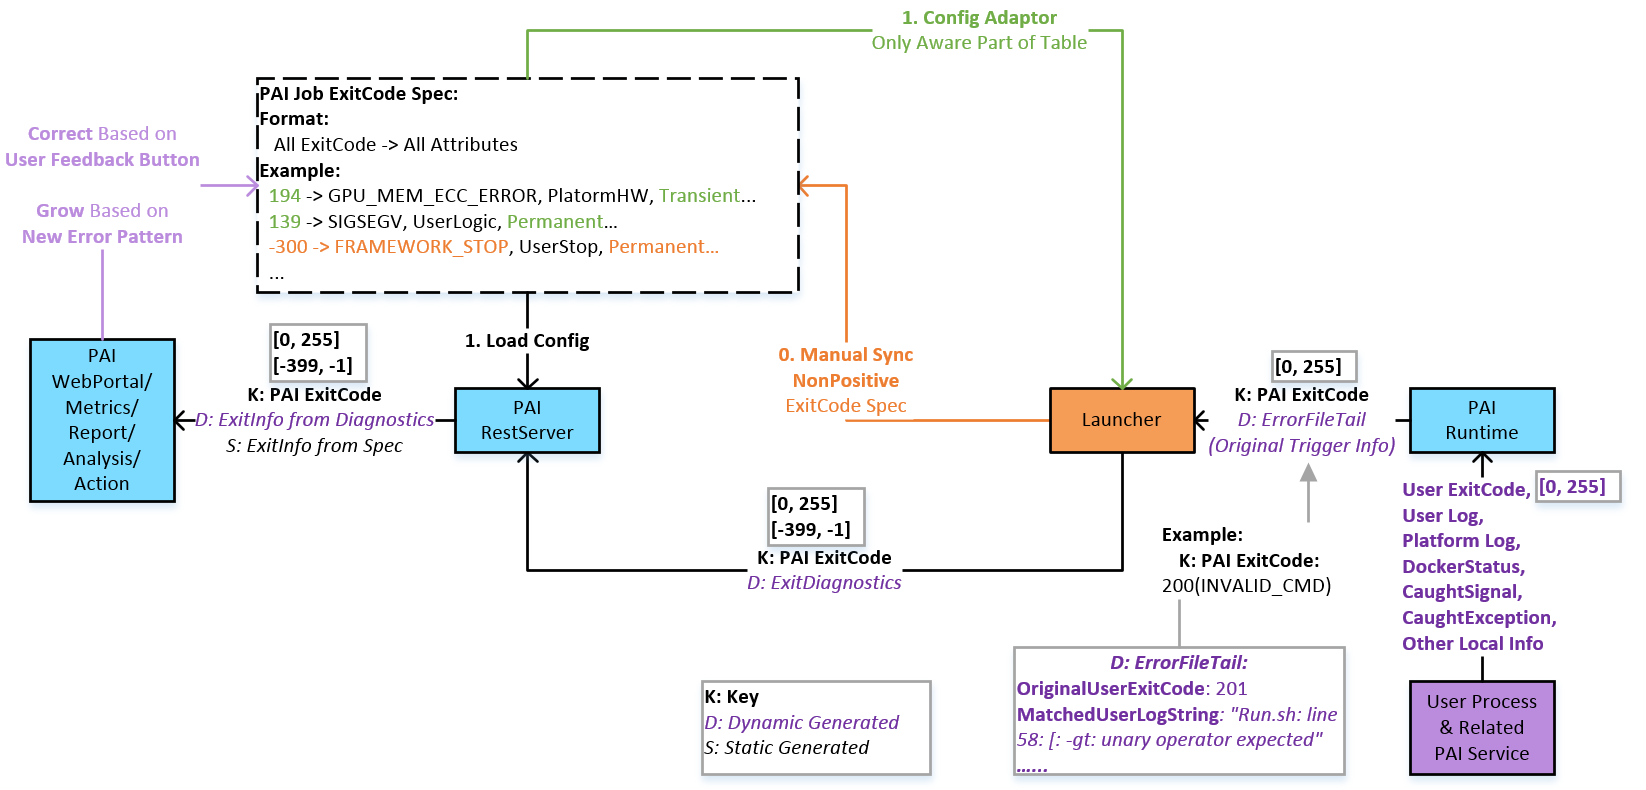
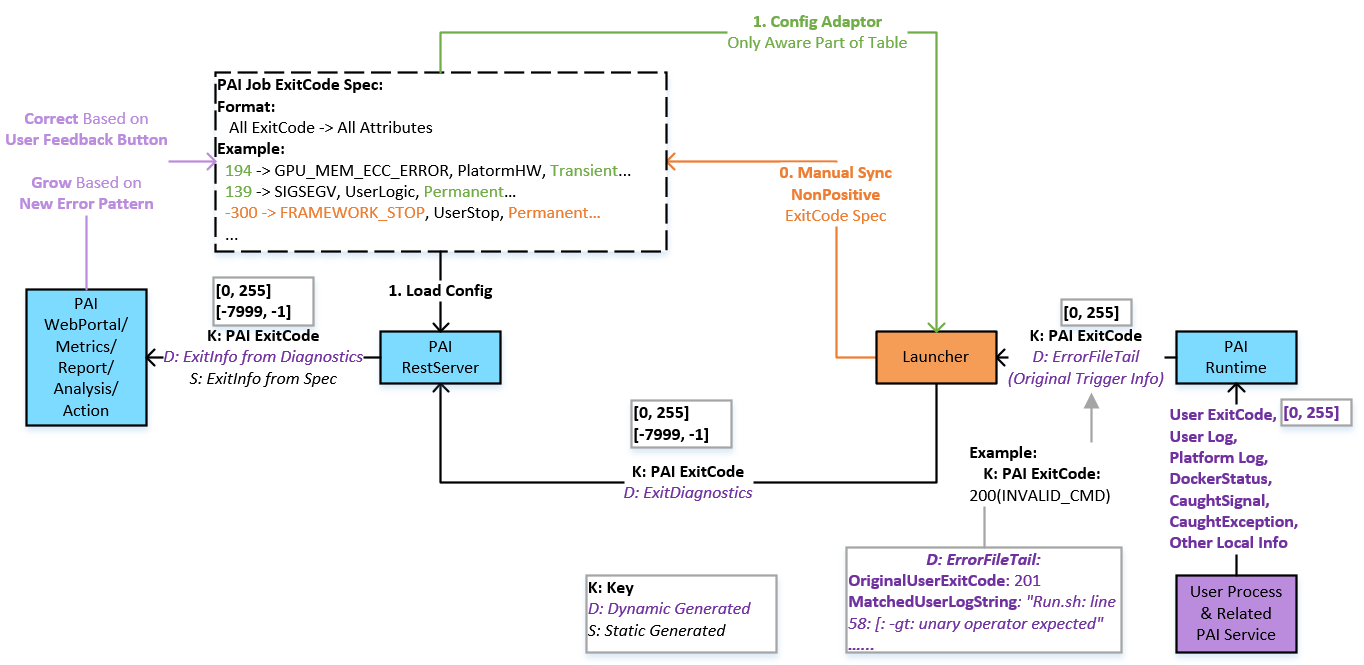
[YARN]: Tune Diagnostics Aggregation

Changed region(s): [[0.0, 0.0, 1.0, 0.9925], [0.4003, 0.8421, 0.585, 0.9925]]

diff --git a/subprojects/frameworklauncher/yarn/src/main/java/com/microsoft/frameworklauncher/common/exit/FrameworkExitSpec.java b/subprojects/frameworklauncher/yarn/src/main/java/com/microsoft/frameworklauncher/common/exit/FrameworkExitSpec.java
@@ -49,22 +49,22 @@ public class FrameworkExitSpec {
         ContainerExitStatus.INVALID,
         null,
         ExitType.TRANSIENT_NORMAL,
-        "Container exited with invalid exit status, maybe container initialization failed"));
+        "Container exited with invalid exit status, maybe YARN failed to initialize container environment"));
     spec.put(FrameworkExitCode.CONTAINER_NOT_AVAILABLE_EXIT_STATUS.toInt(), new FrameworkExitInfo(
         -2517,
         null,
         ExitType.TRANSIENT_NORMAL,
-        "Container exited with not available exit status, maybe container process creation failed"));
+        "Container exited with not available exit status, maybe YARN failed to create container executor process"));
     spec.put(FrameworkExitCode.CONTAINER_NODE_DISKS_FAILED.toInt(), new FrameworkExitInfo(
         ContainerExitStatus.DISKS_FAILED,
         null,
         ExitType.TRANSIENT_NORMAL,
-        "Container early discarded by NM due to local bad disk, maybe no capacity left on the disk"));
+        "Container cannot be launched by YARN due to local bad disk, maybe no disk space left"));
     spec.put(FrameworkExitCode.CONTAINER_PORT_CONFLICT.toInt(), new FrameworkExitInfo(
         -210,
         null,
         ExitType.TRANSIENT_NORMAL,
-        "Container early discarded by NM due to the request ports conflict"));
+        "Container cannot be launched by YARN due to local port conflict"));
     //// Container Aborted by YARN
     spec.put(FrameworkExitCode.CONTAINER_ABORTED.toInt(), new FrameworkExitInfo(
         ContainerExitStatus.ABORTED,
@@ -75,79 +75,79 @@ public class FrameworkExitSpec {
         ContainerExitStatus.ABORTED,
         "Container released on a *lost* node",
         ExitType.TRANSIENT_NORMAL,
-        "Container lost due to node lost, maybe its NM is down for a long time"));
+        "Container lost due to node lost, maybe its YARN NM is down for a long time"));
     spec.put(FrameworkExitCode.CONTAINER_EXPIRED.toInt(), new FrameworkExitInfo(
         ContainerExitStatus.ABORTED,
         "Container expired since it was unused",
         ExitType.TRANSIENT_CONFLICT,
-        "Container expired due to it is not launched on NM in time, maybe other containers cannot be allocated in time"));
+        "Container previously allocated is expired due to it is not launched on YARN NM in time, maybe other containers cannot be allocated in time"));
     spec.put(FrameworkExitCode.CONTAINER_ABORTED_ON_AM_RESTART.toInt(), new FrameworkExitInfo(
         ContainerExitStatus.ABORTED,
         "Container of a completed application",
         ExitType.TRANSIENT_CONFLICT,
-        "Container previously allocated is aborted by RM during AM restart, maybe other containers cannot be allocated in time"));
+        "Container previously allocated is aborted by YARN RM during Launcher AM restart, maybe other containers cannot be allocated in time"));
     //// Container Other Failed by YARN
     spec.put(FrameworkExitCode.CONTAINER_PREEMPTED.toInt(), new FrameworkExitInfo(
         ContainerExitStatus.PREEMPTED,
         null,
         ExitType.TRANSIENT_NORMAL,
-        "Container preempted by RM, maybe its queue overused capacity was reclaimed"));
+        "Container preempted by YARN RM, maybe its queue overused resource was reclaimed"));
     spec.put(FrameworkExitCode.CONTAINER_VIRTUAL_MEMORY_EXCEEDED.toInt(), new FrameworkExitInfo(
         ContainerExitStatus.KILLED_EXCEEDED_VMEM,
         null,
         ExitType.NON_TRANSIENT,
-        "Container killed due to it exceeded the request virtual memory"));
+        "Container killed by YARN due to it exceeded the request virtual memory"));
     spec.put(FrameworkExitCode.CONTAINER_PHYSICAL_MEMORY_EXCEEDED.toInt(), new FrameworkExitInfo(
         ContainerExitStatus.KILLED_EXCEEDED_PMEM,
         null,
         ExitType.NON_TRANSIENT,
-        "Container killed due to it exceeded the request physical memory"));
+        "Container killed by YARN due to it exceeded the request physical memory"));
     spec.put(FrameworkExitCode.CONTAINER_KILLED_BY_AM.toInt(), new FrameworkExitInfo(
         ContainerExitStatus.KILLED_BY_APPMASTER,
         null,
         ExitType.TRANSIENT_NORMAL,
-        "Container killed by AM"));
+        "Container killed by Launcher AM, maybe allocated container is rejected"));
     spec.put(FrameworkExitCode.CONTAINER_KILLED_BY_RM.toInt(), new FrameworkExitInfo(
         ContainerExitStatus.KILLED_BY_RESOURCEMANAGER,
         null,
         ExitType.TRANSIENT_NORMAL,
-        "Container killed by RM"));
+        "Container killed by YARN RM, maybe the container is not managed by YARN RM anymore"));
     spec.put(FrameworkExitCode.CONTAINER_KILLED_ON_APP_COMPLETION.toInt(), new FrameworkExitInfo(
         ContainerExitStatus.KILLED_AFTER_APP_COMPLETION,
         null,
         ExitType.TRANSIENT_NORMAL,
-        "Container killed due to App completed"));
+        "Container killed by YARN RM due to its app already completed"));
     spec.put(FrameworkExitCode.CONTAINER_EXTERNAL_UTILIZATION_SPIKED.toInt(), new FrameworkExitInfo(
         -200,
         null,
         ExitType.TRANSIENT_NORMAL,
-        "Container killed due to external utilization spiked"));
+        "Container killed by YARN due to external utilization spiked"));
     //// Container Failed by Launcher AM
     spec.put(FrameworkExitCode.CONTAINER_NM_LAUNCH_FAILED.toInt(), new FrameworkExitInfo(
         FrameworkExitCode.CONTAINER_NM_LAUNCH_FAILED.toInt(),
         null,
         ExitType.TRANSIENT_NORMAL,
-        "Container failed to launch on NM"));
+        "Container failed to launch on YARN NM"));
     spec.put(FrameworkExitCode.CONTAINER_RM_RESYNC_LOST.toInt(), new FrameworkExitInfo(
         FrameworkExitCode.CONTAINER_RM_RESYNC_LOST.toInt(),
         null,
         ExitType.TRANSIENT_NORMAL,
-        "Container lost after RMResynced"));
+        "Container lost after Launcher AM resynced with YARN RM"));
     spec.put(FrameworkExitCode.CONTAINER_RM_RESYNC_EXCEEDED.toInt(), new FrameworkExitInfo(
         FrameworkExitCode.CONTAINER_RM_RESYNC_EXCEEDED.toInt(),
         null,
         ExitType.NON_TRANSIENT,
-        "Container exceeded after RMResynced"));
+        "Container exceeded after Launcher AM resynced with YARN RM"));
     spec.put(FrameworkExitCode.CONTAINER_MIGRATE_TASK_REQUESTED.toInt(), new FrameworkExitInfo(
         FrameworkExitCode.CONTAINER_MIGRATE_TASK_REQUESTED.toInt(),
         null,
         ExitType.TRANSIENT_NORMAL,
-        "Container killed due to MigrateTaskRequest"));
+        "Container killed by Launcher due to user MigrateTaskRequest"));
     spec.put(FrameworkExitCode.CONTAINER_AGENT_EXPIRED.toInt(), new FrameworkExitInfo(
         FrameworkExitCode.CONTAINER_AGENT_EXPIRED.toInt(),
         null,
         ExitType.TRANSIENT_NORMAL,
-        "Container killed due to no agent heartbeat is received in time"));
+        "Container killed by Launcher due to no Launcher Agent heartbeat is received in time"));
     /// Container Internal Error is handled by UserContainerExitSpec.
 
 
@@ -158,38 +158,38 @@ public class FrameworkExitSpec {
         FrameworkExitCode.AM_RM_HEARTBEAT_YARN_EXCEPTION.toInt(),
         null,
         ExitType.NON_TRANSIENT,
-        "AM RM heartbeat failed due to YarnException, maybe App is non-compliant"));
+        "Launcher AM failed to heartbeat with YARN RM due to YarnException, maybe App is non-compliant"));
     spec.put(FrameworkExitCode.AM_RM_HEARTBEAT_IO_EXCEPTION.toInt(), new FrameworkExitInfo(
         FrameworkExitCode.AM_RM_HEARTBEAT_IO_EXCEPTION.toInt(),
         null,
         ExitType.TRANSIENT_NORMAL,
-        "AM RM heartbeat failed due to IOException, maybe RM is down"));
+        "Launcher AM failed to heartbeat with YARN RM due to IOException, maybe YARN RM is down"));
     spec.put(FrameworkExitCode.AM_RM_HEARTBEAT_UNKNOWN_EXCEPTION.toInt(), new FrameworkExitInfo(
         FrameworkExitCode.AM_RM_HEARTBEAT_UNKNOWN_EXCEPTION.toInt(),
         null,
         ExitType.TRANSIENT_NORMAL,
-        "AM RM heartbeat failed due to unknown Exception"));
+        "Launcher AM failed to heartbeat with YARN RM due to unknown Exception"));
     spec.put(FrameworkExitCode.AM_RM_HEARTBEAT_SHUTDOWN_REQUESTED.toInt(), new FrameworkExitInfo(
         FrameworkExitCode.AM_RM_HEARTBEAT_SHUTDOWN_REQUESTED.toInt(),
         null,
         ExitType.TRANSIENT_NORMAL,
-        "AM RM heartbeat failed due to ShutdownRequest, maybe AM is not managed by RM anymore"));
+        "Launcher AM failed to heartbeat with YARN RM due to ShutdownRequest, maybe AM is not managed by YARN RM anymore"));
     //// App Failed by Launcher AM
     spec.put(FrameworkExitCode.AM_UNKNOWN_EXCEPTION.toInt(), new FrameworkExitInfo(
         FrameworkExitCode.AM_UNKNOWN_EXCEPTION.toInt(),
         null,
         ExitType.TRANSIENT_NORMAL,
-        "AM failed due to unknown Exception"));
+        "Launcher AM failed due to unknown Exception"));
     spec.put(FrameworkExitCode.AM_NON_TRANSIENT_EXCEPTION.toInt(), new FrameworkExitInfo(
         FrameworkExitCode.AM_NON_TRANSIENT_EXCEPTION.toInt(),
         null,
         ExitType.NON_TRANSIENT,
-        "AM failed due to NonTransientException"));
+        "Launcher AM failed due to NonTransientException, maybe App is non-compliant"));
     spec.put(FrameworkExitCode.AM_GANG_ALLOCATION_TIMEOUT.toInt(), new FrameworkExitInfo(
         FrameworkExitCode.AM_GANG_ALLOCATION_TIMEOUT.toInt(),
         null,
         ExitType.TRANSIENT_CONFLICT,
-        "AM failed due to all the requested resource cannot be satisfied in time"));
+        "Launcher AM failed due to all the requested resource cannot be satisfied in time"));
     /// AM External Error is already handled by RM
 
 
@@ -200,33 +200,33 @@ public class FrameworkExitSpec {
         FrameworkExitCode.APP_SUBMISSION_YARN_EXCEPTION.toInt(),
         null,
         ExitType.NON_TRANSIENT,
-        "Failed to submit App to RM due to YarnException, maybe App is non-compliant"));
+        "Failed to submit App to YARN RM due to YarnException, maybe App is non-compliant"));
     spec.put(FrameworkExitCode.APP_SUBMISSION_IO_EXCEPTION.toInt(), new FrameworkExitInfo(
         FrameworkExitCode.APP_SUBMISSION_IO_EXCEPTION.toInt(),
         null,
         ExitType.TRANSIENT_NORMAL,
-        "Failed to submit App to RM due to IOException, maybe RM is down"));
+        "Failed to submit App to YARN RM due to IOException, maybe YARN RM is down"));
     spec.put(FrameworkExitCode.APP_SUBMISSION_UNKNOWN_EXCEPTION.toInt(), new FrameworkExitInfo(
         FrameworkExitCode.APP_SUBMISSION_UNKNOWN_EXCEPTION.toInt(),
         null,
         ExitType.UNKNOWN,
-        "Failed to submit App to RM due to unknown Exception"));
+        "Failed to submit App to YARN RM due to unknown Exception"));
     spec.put(FrameworkExitCode.APP_KILLED_UNEXPECTEDLY.toInt(), new FrameworkExitInfo(
         FrameworkExitCode.APP_KILLED_UNEXPECTEDLY.toInt(),
         null,
         ExitType.TRANSIENT_NORMAL,
-        "App killed unexpectedly and directly through RM"));
+        "App killed unexpectedly and directly through YARN RM"));
     /// App Failed by Launcher Service
     spec.put(FrameworkExitCode.APP_RM_RESYNC_LOST.toInt(), new FrameworkExitInfo(
         FrameworkExitCode.APP_RM_RESYNC_LOST.toInt(),
         null,
         ExitType.TRANSIENT_NORMAL,
-        "App lost after RMResynced"));
+        "App lost after Launcher Service resynced with YARN RM"));
     spec.put(FrameworkExitCode.APP_STOP_FRAMEWORK_REQUESTED.toInt(), new FrameworkExitInfo(
         FrameworkExitCode.APP_STOP_FRAMEWORK_REQUESTED.toInt(),
         null,
         ExitType.NON_TRANSIENT,
-        "App killed due to StopFrameworkRequest"));
+        "App killed due to user StopFrameworkRequest"));
     spec.put(FrameworkExitCode.APP_AM_DIAGNOSTICS_LOST.toInt(), new FrameworkExitInfo(
         FrameworkExitCode.APP_AM_DIAGNOSTICS_LOST.toInt(),
         null,

diff --git a/subprojects/frameworklauncher/yarn/src/main/java/com/microsoft/frameworklauncher/common/exit/FrameworkExitCode.java b/subprojects/frameworklauncher/yarn/src/main/java/com/microsoft/frameworklauncher/common/exit/FrameworkExitCode.java
@@ -19,7 +19,7 @@ package com.microsoft.frameworklauncher.common.exit;
 
 /**
  * Predefined ExitCode for User Framework exit:
- * 1. It should be within range [-8000, -7100], [0, 0] to avoid conflicts with
+ * 1. It should be within range [-7999, -7100], [0, 0] to avoid conflicts with
  *    all the possible Failure ExitCode [1, 255] which is got from User
  *    Container exit and Failure ExitCode [-7099, -1] which is got from YARN.
  *
